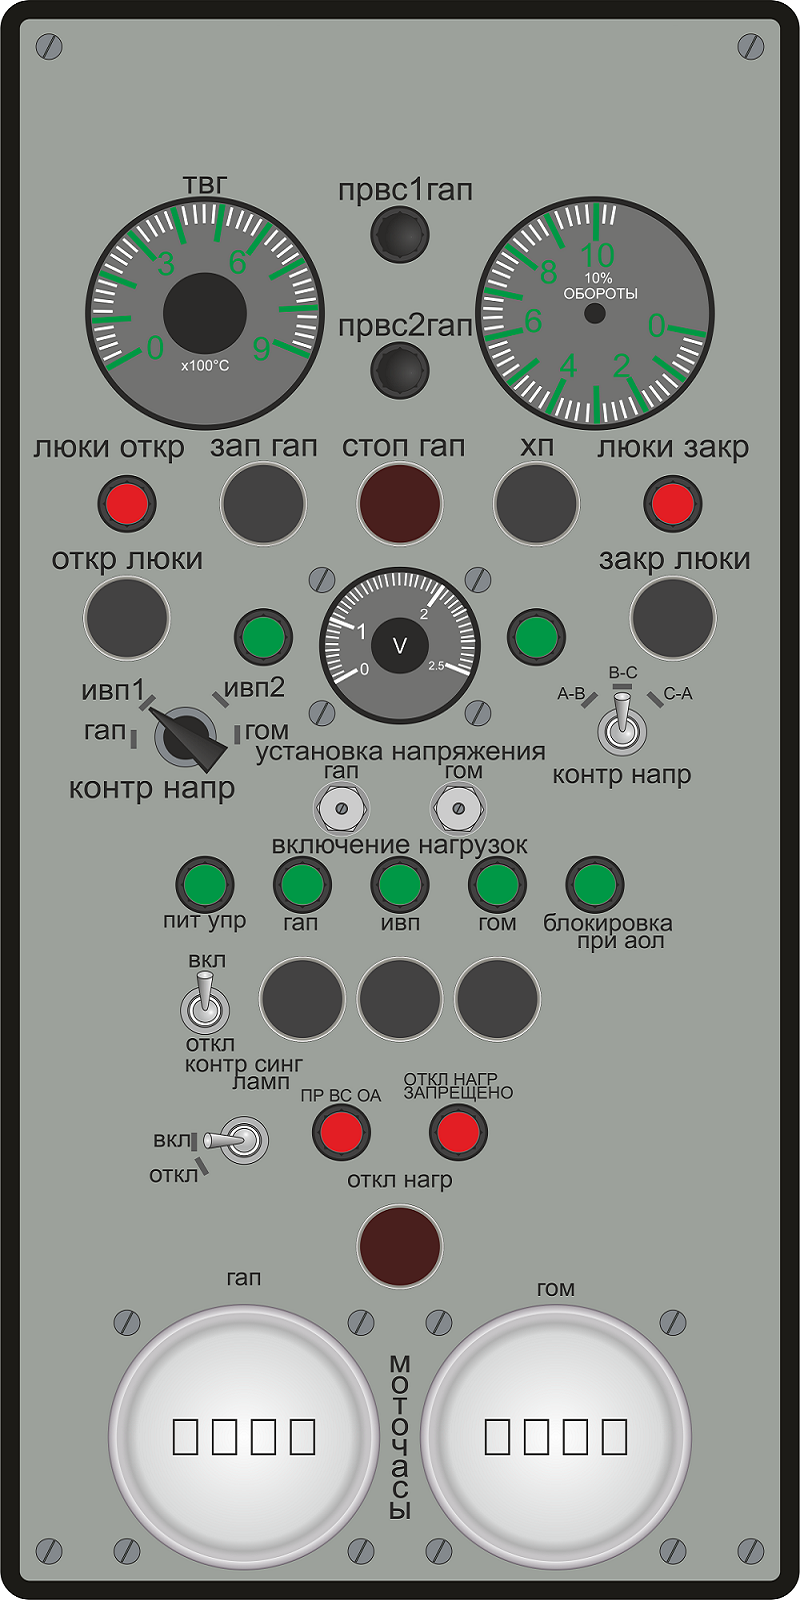
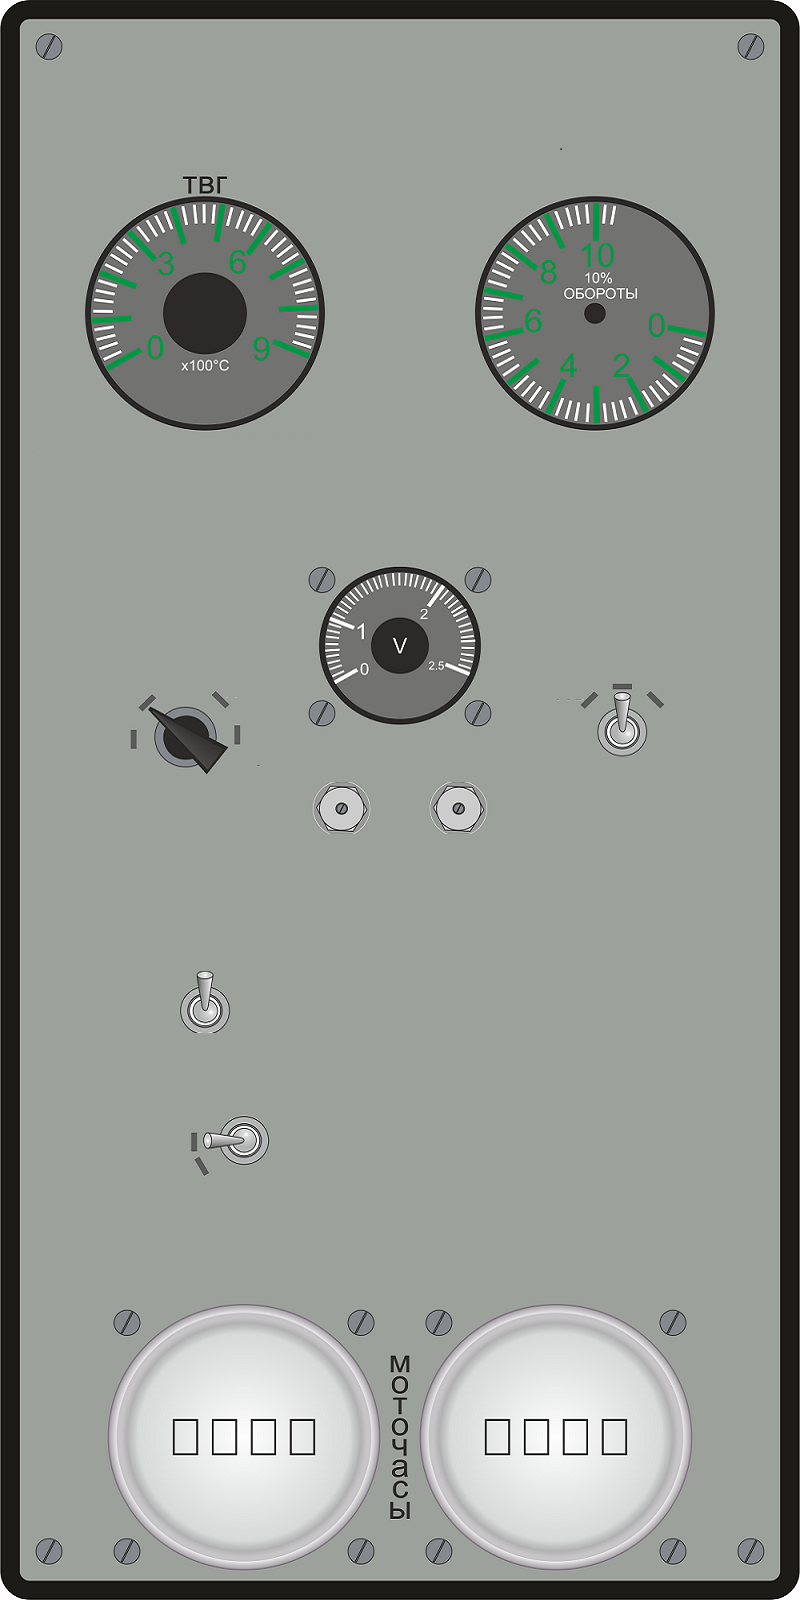
started panel2 with fixed buttons

diff --git a/src/sample/style.css b/src/sample/style.css
@@ -1,3 +1,4 @@
+/*
 .toggle-button {
     -fx-focus-color: transparent;
     -fx-faint-focus-color: transparent;
@@ -5,12 +6,14 @@
 }
 
 .toggle-button:selected {
-    -fx-rotate: 180deg;
+//-fx-rotate: 180deg;
 }
+*/
 
 #gap{
     -fx-background-image: url("pics/GAP.png");
-    -fx-background-color: aqua;
+    -fx-background-color: #9ca198;
+    -fx-border-radius: 200;
     -fx-background-repeat: round;
     -fx-background-size: cover;
 
@@ -29,24 +32,16 @@
     -fx-background-size: cover;
 }
 
-#firstLabelPanel1 {
-
-}
-#secondLabelPanel1{
-
-}
-
 #string1Label1, #string1Label2{
     -fx-font-size: 11px;
     -fx-font-weight: bolder;
     -fx-hgap: 0;
 }
 
-#redLight1,#redLight2,#redLight3{
+.redLight{
     -fx-stroke-width: 3px;
     -fx-fill: darkred;
 }
-
 
 Label{
     -fx-font-family: sans-serif;
@@ -54,19 +49,46 @@ Label{
 }
 
 
-#yellowLight{
+#yellowLight1{
     -fx-stroke-width: 3px;
     -fx-fill: #ffb836;
 }
 
-#greenLight1{
+.greenLight{
     -fx-stroke-width: 3px;
     -fx-fill: darkgreen;
 }
 
-#blackLight1{
-
+.blackLight{
+    -fx-stroke-width: 3px;
+    -fx-fill: dimgrey;
 }
+
+.grayButton {
+    -fx-border-color: aliceblue;
+    -fx-background-color: #3c3b3b;
+    -fx-border-width: 1;
+}
+
+.toggle-button{
+    -fx-background-insets: 0;
+}
+
+.grayButton:selected{
+    -fx-border-color: gray;
+    -fx-border-width: 3px;
+}
+
+.redButton {
+    -fx-border-color: aliceblue;
+    -fx-background-color: darkred;
+    -fx-border-width: 1;
+}
+.redButton:selected{
+    -fx-border-color: gray;
+    -fx-border-width: 3px;
+}
+
 
 /*Отменить последние действие*/
 

diff --git a/src/sample/Main.java b/src/sample/Main.java
@@ -23,7 +23,7 @@ public class Main extends Application {
 
     private SplitPane splitBox;
     private Pane panel1;
-    private AnchorPane panel2;
+    private Pane panel2;
     private AnchorPane panel3;
     private MenuBar menu;
 
@@ -39,6 +39,7 @@ public class Main extends Application {
     //yellowLight
     private Circle yellowLight1;
     //greenLights
+        //panel1
     private Circle greenLight1;
     private Circle greenLight2;
     private Circle greenLight3;
@@ -47,6 +48,8 @@ public class Main extends Application {
     private Circle greenLight6;
     private Circle greenLight7;
     private Circle greenLight8;
+        //panel2
+    private Circle greenLight9;
 
     //blackLight
     private Circle blackLight1;
@@ -111,6 +114,7 @@ public class Main extends Application {
 
     //red button
     private ToggleButton redButton1;
+    private ToggleButton redButton2;
 
 
     //private Circle redLight4;
@@ -137,7 +141,7 @@ public class Main extends Application {
         //init workspace containers
         splitBox = (SplitPane) root.lookup("#splitBox");
         panel1 = (Pane) root.lookup("#gap");
-        panel2 = (AnchorPane) root.lookup("#py");
+        panel2 = (Pane) root.lookup("#py");
         panel3 = (AnchorPane) root.lookup("#planeThird");
         menu = (MenuBar) root.lookup("#Menu");
 
@@ -332,8 +336,15 @@ public class Main extends Application {
         setLight(redLight6, 0.425, 0.71);
         setLight(redLight7, 0.57, 0.71);
 
+        redButton2 = (ToggleButton) root.lookup("#redButton2");
+        setButton(redButton2,0.449, 0.75);
 
-        System.out.println(  );
+        // panel2
+        greenLight9 = (Circle) root.lookup("#greenLight9");
+        setLight(greenLight9, 0.5, 0.5);
+
+
+        System.out.println( "" );
     }
 
     private void setButton(ToggleButton tb, double x, double y){
@@ -349,6 +360,7 @@ public class Main extends Application {
     }
 
     private void setLabel(Label label, double x, double y){
+        label.layoutXProperty().bind(splitBox.heightProperty().divide(2).multiply(x));
         label.layoutXProperty().bind(splitBox.heightProperty().divide(2).multiply(x));
         label.layoutYProperty().bind(panel1.heightProperty().multiply(y));
         label.styleProperty().bind(Bindings.concat("-fx-font-size: ", fontSize.asString(), ";"));
